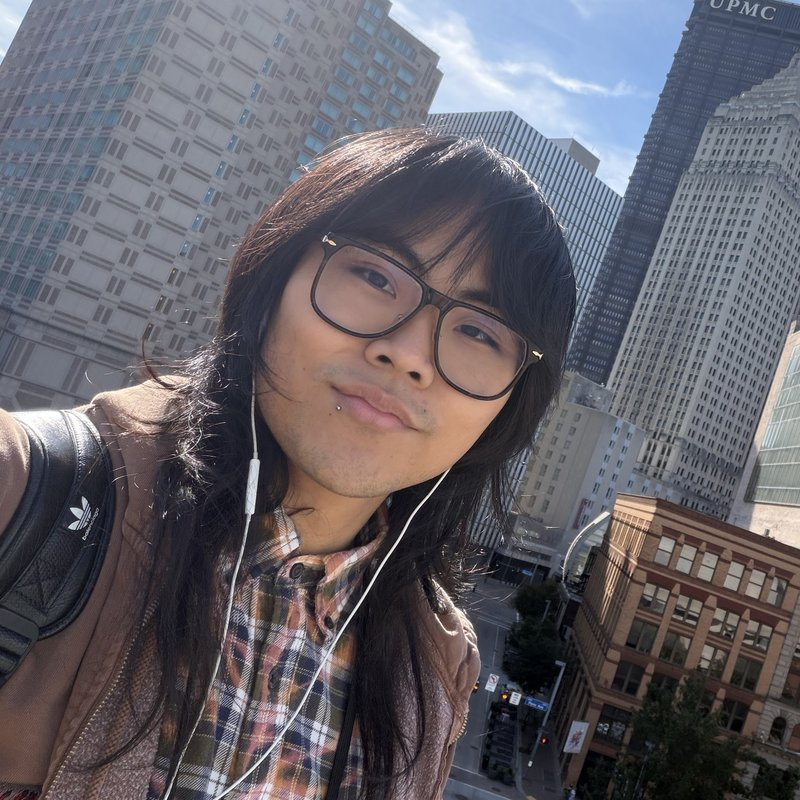
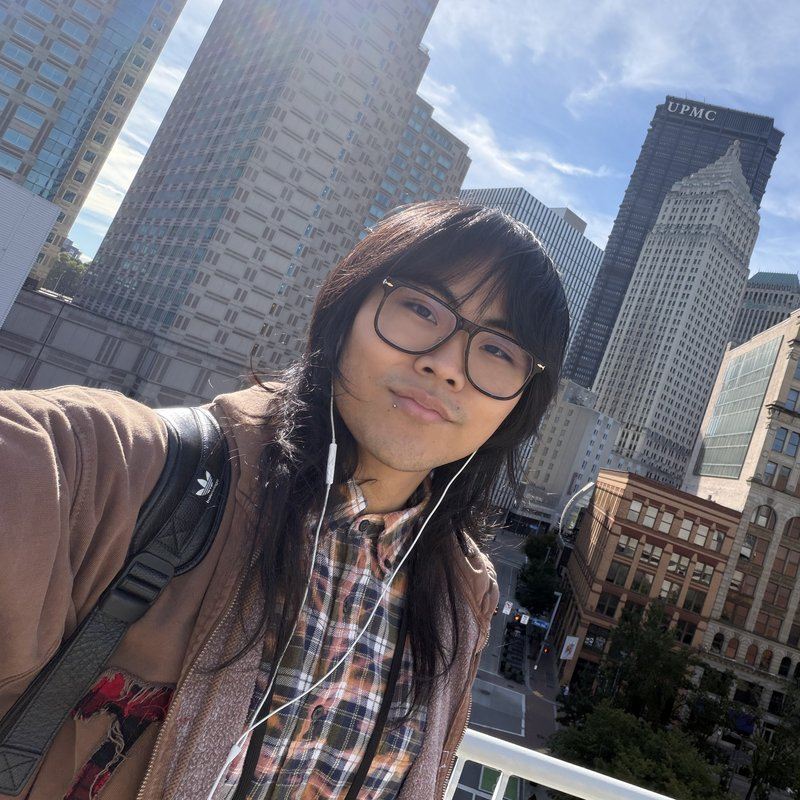
Add enLabel, publications, honors and project review to the fun site, recrop headshot
Experience gains enLabel and the WPI AI Futures Collab. A Publications block lists the three 2026 items and a honors block lists the awards. Project cards for the safe-RL work, the Worcester MQP, GailBot and Untitled now match the CV, and a Civic Honesty Benchmark card is added. The headshot is recropped to the left two-thirds of the oriented image.

Claude-Session: https://claude.ai/code/session_01Y1sVc1ABoFAANqKMyDc6Su

diff --git a/src/App.jsx b/src/App.jsx
@@ -1,4 +1,4 @@
-import { useRef, useEffect, useState } from "react";
+import { Fragment, useRef, useEffect, useState } from "react";
 import ModelViewer from "./components/ModelViewer";
 import "./App.css";
 import NavBar from "./components/NavBar";
@@ -6,6 +6,67 @@ import ALink from "./components/ALink";
 import resume from "./assets/Philip Bui - Resume.pdf";
 import cv from "./assets/Philip Bui - CV.pdf";
 import ProjectCarousel from "./components/ProjectCarousel";
+
+const publications = [
+  {
+    lines: [
+      ["State-Wise Constrained Policy Shaping for"],
+      ["Zero-Shot Runtime Behavior Steering"],
+      ["T. Howell, P. Bui, R. McPherson, V. Sarathy"],
+      [
+        {
+          text: "AAAI-26 Workshop on AI Governance (AIGOV)",
+          href: "https://aigovernance.github.io/",
+        },
+      ],
+      ["Singapore, 2026. Oral."],
+      ["Collisions fell 97% in-distribution and 99% zero-shot."],
+    ],
+  },
+  {
+    lines: [
+      ["Scoring Rules Certify Reporting, Not Seeking:"],
+      ["A Dilemma for Level-Based Rewards in Sequential,"],
+      ["Embodied Perception"],
+      ["P. Bui"],
+      ["Poster, IROS 2026 Full-Shift Robot Co-Workers"],
+      ["workshop (non-archival), Pittsburgh."],
+      ["Proper scoring rules reward honest reporting, not seeking."],
+    ],
+  },
+  {
+    lines: [
+      ["Do Agents Disclose What the Data Cannot Support?"],
+      ["A Live-Data Benchmark for Abstention,"],
+      ["Measurement-Uncertainty Caveats, and Missingness"],
+      ["Disclosure over Municipal Open Data"],
+      ["P. Bui, 2026. Released as a benchmark."],
+      [
+        "Code and data: ",
+        {
+          text: "civic-honesty-benchmark",
+          href: "https://github.com/phbui/civic-honesty-benchmark",
+        },
+      ],
+      ["A production model disclosed a findable defect in 0 of 108 answers."],
+    ],
+  },
+];
+
+const honors = [
+  [
+    "Tandon School of Engineering Ph.D. Fellowship, NYU, 2026",
+  ],
+  [
+    "NYC DEP Environmental Technology Lab Challenge, Cyvl, 2026",
+  ],
+  [
+    "Honos Civicus Society, Tufts, 2025",
+  ],
+  [
+    "Upsilon Pi Epsilon, WPI, 2021-2023",
+  ],
+];
 
 const App = () => {
   const homeRef = useRef(null);
@@ -148,7 +209,15 @@ const App = () => {
           </a>
           {": 'Operations Intern'},"}
         </pre>
-          <pre>
+        <pre>
+          {" "}
+          {"      {"}
+          <a href="https://www.enlabel.com/">
+            <ALink text="enLabel" />
+          </a>
+          {": 'Software Engineer, Jan 2024 - Jan 2025'},"}
+        </pre>
+        <pre>
           {" "}
           {"      {"}
           <a href="https://www.cyvl.com/">
@@ -157,6 +226,7 @@ const App = () => {
           {": 'Full-Stack Software Engineer, 2025-2026'}"}
         </pre>
         <pre> {"    ];"}</pre>
+        <pre> {"  };"}</pre>
         <br></br>
         <pre>
           {" "}
@@ -191,6 +261,65 @@ const App = () => {
           </a>
           {", summer 2025'},"}
         </pre>
+        <pre>
+          {" "}
+          {"      {"}
+          <a href="https://www.wpi.edu/">
+            <ALink text="WPI" />
+          </a>
+          {": 'AI Futures Collab, summer 2025'},"}
+        </pre>
+        <pre> {"    ];"}</pre>
+        <pre> {"  };"}</pre>
+        <br></br>
+        <pre>
+          {" "}
+          {"  const "}
+          <span style={{ textDecoration: "underline" }}>
+            {"publications"}
+          </span>
+          {" = () => {"}
+        </pre>
+        <pre> {"    return ["}</pre>
+        {publications.map((pub, i) => (
+          <Fragment key={i}>
+            {pub.lines.map((line, j) => (
+              <pre key={j}>
+                {j === 0 ? "      {'" : "        "}
+                {line.map((seg, k) =>
+                  typeof seg === "string" ? (
+                    seg
+                  ) : (
+                    <a key={k} href={seg.href}>
+                      <ALink text={seg.text} />
+                    </a>
+                  )
+                )}
+                {j === pub.lines.length - 1 ? "'}," : ""}
+              </pre>
+            ))}
+            <br></br>
+          </Fragment>
+        ))}
+        <pre> {"    ];"}</pre>
+        <pre> {"  };"}</pre>
+        <br></br>
+        <pre>
+          {" "}
+          {"  const "}
+          <span style={{ textDecoration: "underline" }}>
+            {"honors"}
+          </span>
+          {" = () => {"}
+        </pre>
+        <pre> {"    return ["}</pre>
+        {honors.map((line, i) => (
+          <pre key={i}>
+            {"      '"}
+            {line}
+            {"',"}
+          </pre>
+        ))}
         <pre> {"    ];"}</pre>
         <pre> {"  };"}</pre>
         <pre>{"}"}</pre>

diff --git a/src/components/ProjectCarousel.jsx b/src/components/ProjectCarousel.jsx
@@ -9,13 +9,14 @@ import untitledIMG from "../assets/untitled.jpg";
 import tarotIMG from "../assets/tarot.jpg";
 import tuftsIMG from "../assets/tufts.jpg";
 import hilabIMG from "../assets/hilab.jpg";
+import hamiIMG from "../assets/hami.jpg";
 
 const academicProjects = [
   {
     img: hilabIMG,
     title: "Human Interaction Lab: GailBot",
     link: "https://www.gailbot.ai/",
-    text: "Automated transcription system for conversation analysis.",
+    text: "PyPI-distributed transcription pipeline for conversation analysis. I led its back-end overhaul.",
   },
   {
     img: tuftsIMG,
@@ -27,7 +28,13 @@ const academicProjects = [
     img: tuftsIMG,
     title: "Metrics‑Driven Safe RL for AI Driving",
     link: "https://www.are.na/block/36445938",
-    text: "Normative supervisor augments RL agent actions to enforce safety norms in autonomous driving, cutting collisions and improving zero‑shot.",
+    text: "A post-training supervisor that enforces safety norms on DQN agents in HighwayEnv. The paper is listed under Publications.",
+  },
+  {
+    img: hamiIMG,
+    title: "Civic Honesty Benchmark",
+    link: "https://github.com/phbui/civic-honesty-benchmark",
+    text: "A live-data benchmark of 596 questions over a municipal open-data API. The dataset and episode logs are public. The paper is listed under Publications.",
   },
   {
     img: tuftsIMG,
@@ -51,7 +58,7 @@ const academicProjects = [
     img: wpiIMG,
     title: "Worcester PermitPro",
     link: "https://www.are.na/block/26865313",
-    text: "A blockchain-based smart contract system that aims to streamline low-income housing development in Worcester for WPI's Major Qualifying Project Program.",
+    text: "An AI-assisted land-acquisition and financing platform for low-income housing in Worcester, with GIS layers, open municipal data and blockchain-published records. Built for WPI's Major Qualifying Project.",
   },
   {
     img: wpiIMG,
@@ -84,7 +91,7 @@ const miscellaneousProjects = [
     img: untitledIMG,
     title: "Untitled",
     link: "https://untitled.boston/",
-    text: "A website I made for a start-up entertainment consultancy, Untitled LLC in Boston, MA.",
+    text: "A website I made for Untitled LLC, the underground arts collective I co-founded in Boston, MA.",
   },
   {
     img: tarotIMG,
